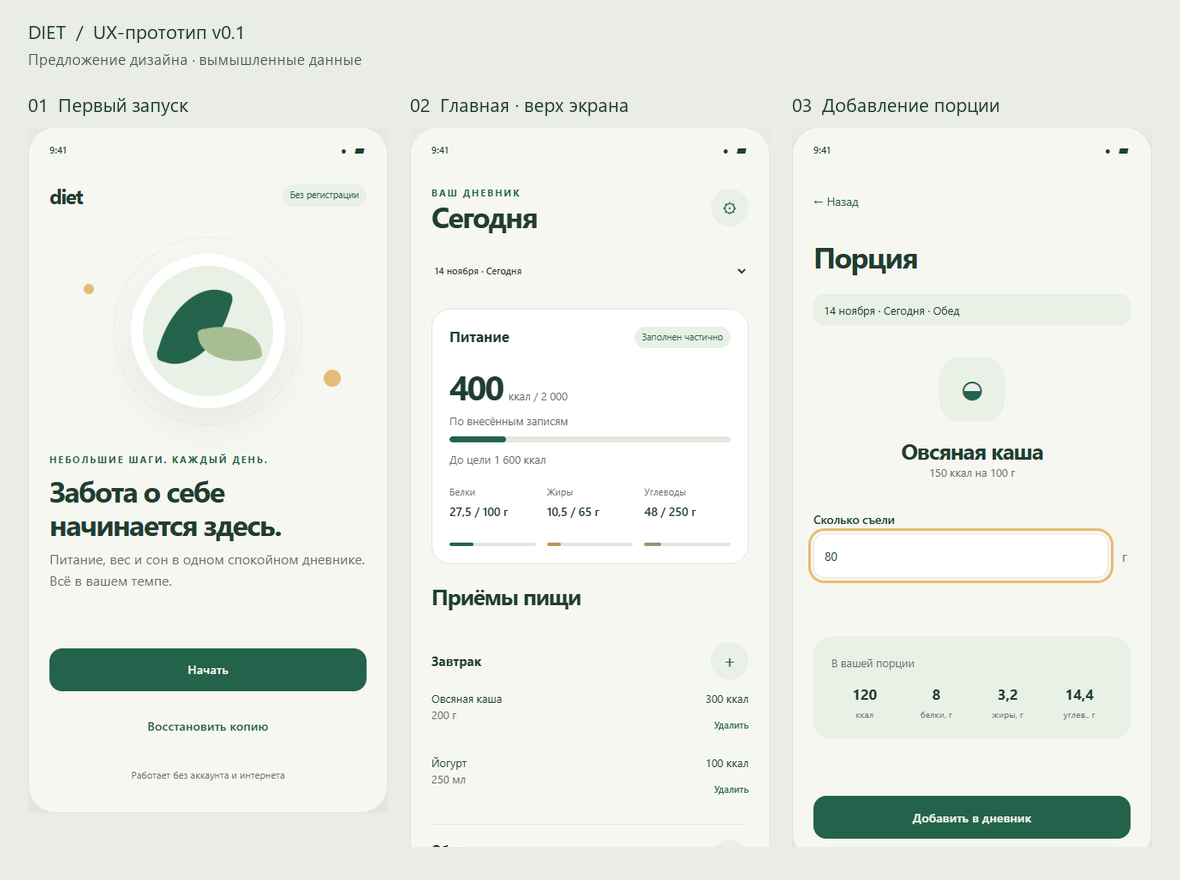
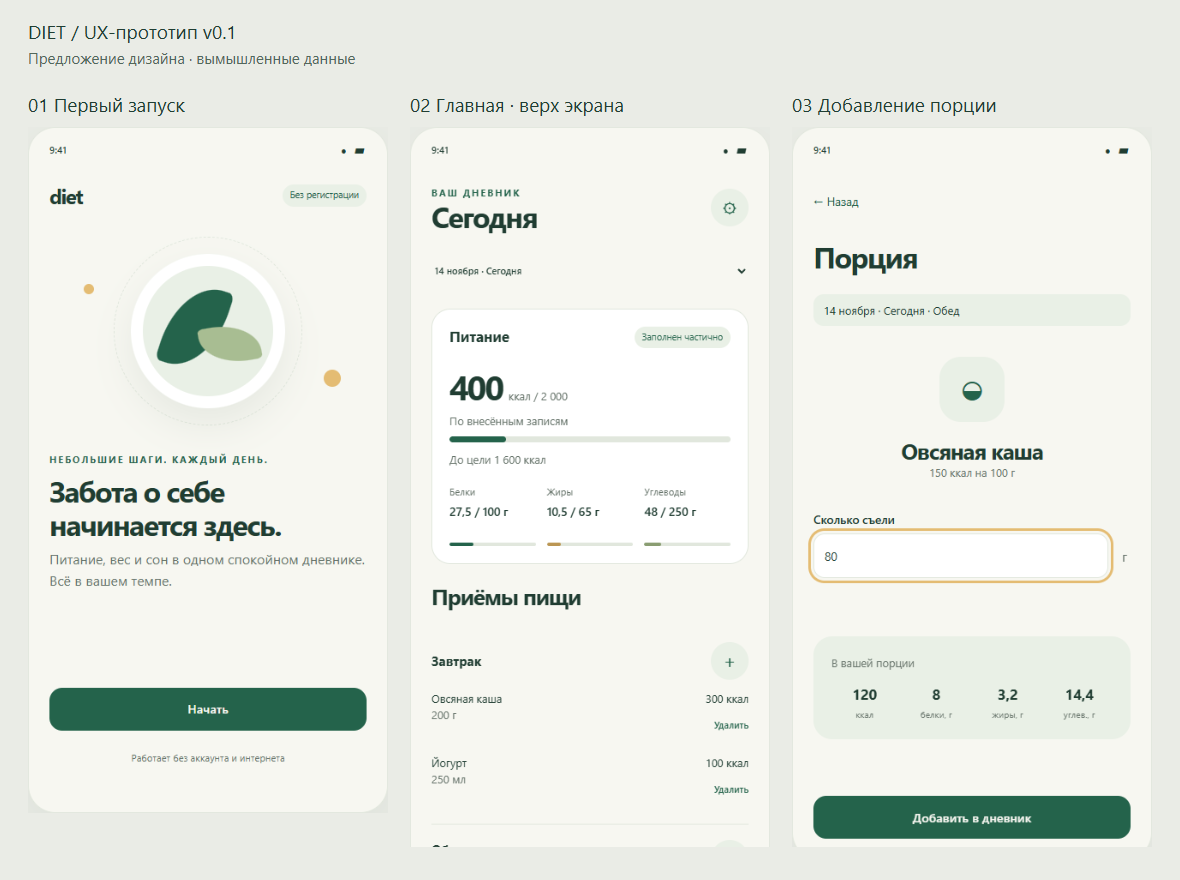
design: remove restore action from onboarding prototype

diff --git a/docs/prototype/index.html b/docs/prototype/index.html
@@ -72,7 +72,7 @@ function closeModal(){document.getElementById('dialog').close();if(lastFocus?.is
 function outside(){modal('За пределами макета','Этот сценарий не входит в прототип. Здесь можно проверить первый запуск, главную и добавление еды. Данные не изменены.');}
 function render(){
  let html='';
- if(state.screen==='welcome')html=`<div class="screen"><div class="row"><span class="brand">diet</span><span class="pill">Без регистрации</span></div><div class="art" aria-hidden="true"><div class="orbit"></div><div class="plate"><div class="leaf"></div><div class="leaf second"></div></div><i class="dot one"></i><i class="dot two"></i></div><div class="heading"><span class="eyebrow">Небольшие шаги. Каждый день.</span><h1 tabindex="-1">Забота о себе<br>начинается здесь.</h1><p class="muted">Питание, вес и сон в одном спокойном дневнике. Всё в вашем темпе.</p></div><div class="spacer"></div><div class="stack"><button class="button full" data-action="start">Начать</button><button class="button plain full" data-action="outside">Восстановить копию</button></div><p class="footer-note">Работает без аккаунта и интернета</p></div>`;
+ if(state.screen==='welcome')html=`<div class="screen"><div class="row"><span class="brand">diet</span><span class="pill">Без регистрации</span></div><div class="art" aria-hidden="true"><div class="orbit"></div><div class="plate"><div class="leaf"></div><div class="leaf second"></div></div><i class="dot one"></i><i class="dot two"></i></div><div class="heading"><span class="eyebrow">Небольшие шаги. Каждый день.</span><h1 tabindex="-1">Забота о себе<br>начинается здесь.</h1><p class="muted">Питание, вес и сон в одном спокойном дневнике. Всё в вашем темпе.</p></div><div class="spacer"></div><div class="stack"><button class="button full" data-action="start">Начать</button></div><p class="footer-note">Работает без аккаунта и интернета</p></div>`;
  if(state.screen==='profile')html=`<div class="screen">${header('welcome','Давайте познакомимся','Этот шаг можно пропустить. Всё можно изменить позже.')}${step(1)}${field('name','Как к вам обращаться',state.name,'autocomplete="off" maxlength="40" placeholder="Имя, необязательно"')}<div class="stack"><h3>Что сейчас вам ближе?</h3>${['Снижение веса','Поддержание','Набор массы'].map(t=>`<button class="choice" data-action="direction" data-value="${t}" aria-pressed="${state.direction===t}"><span class="radio" aria-hidden="true"></span>${t}</button>`).join('')}</div><div class="spacer"></div><div class="stack"><button class="button full" data-action="goals">Продолжить</button><button class="button plain full" data-action="skip-profile">Пропустить</button></div></div>`;
  if(state.screen==='goals')html=`<div class="screen">${header('goal-back','Ваши ориентиры','Введите свои значения КБЖУ. Можно начать дневник и настроить их позже.')}${step(2)}${nutrientFields('goal',state.goalDraft)}<label class="field" for="goal-date">Действуют с даты<select id="goal-date"><option value="${TODAY}" ${state.goalDate===TODAY?'selected':''}>14 ноября 2026</option><option value="${YESTERDAY}" ${state.goalDate===YESTERDAY?'selected':''}>13 ноября 2026</option></select></label><p class="small muted">Здесь нет автоматической рекомендации. Направление цели не меняет введённые значения.</p><p class="error" id="goal-error" aria-live="polite"></p><div class="spacer"></div><div class="stack"><button class="button full" id="goal-save" data-action="save-goal" ${goalValid()?'':'disabled'}>${state.returnHome?'Сохранить цель':'Сохранить и начать'}</button><button class="button plain full" data-action="skip-goal">${state.returnHome?'Вернуться в дневник':'Настроить позже'}</button><button class="link" data-action="clear-goal">Очистить черновик</button></div></div>`;
  if(state.screen==='home')html=home();

diff --git a/docs/prototype/validation.md b/docs/prototype/validation.md
@@ -51,6 +51,12 @@
 
 ## Что остаётся проверить
 
-С пользователем: визуальное направление, понятность целей и полного набора КБЖУ, расположение действий, тексты пустых состояний. На реальном Android после отдельного разрешения на реализацию: системная клавиатура, системный крупный шрифт, TalkBack, перезапуск, хранение, ошибки записи и восстановление копий. Контраст и работа со скринридером не проходили инструментальный аудит доступности.
+С пользователем: визуальное направление, понятность целей и полного набора КБЖУ, расположение действий, тексты пустых состояний. На реальном Android после отдельного разрешения на реализацию: системная клавиатура, системный крупный шрифт, TalkBack, перезапуск, хранение и ошибки записи. Контраст и работа со скринридером не проходили инструментальный аудит доступности.
 
-Расчётные рекомендации, полнофункциональные рецепты/копирование, редактирование исторической порции, аналитика, вес/сон и резервные копии не считаются реализованными или проверенными этим макетом. Полный список границ — [README прототипа](README.md).
+Расчётные рекомендации, полнофункциональные рецепты/копирование, редактирование исторической порции, аналитика и вес/сон не считаются реализованными или проверенными этим макетом. Полный список границ — [README прототипа](README.md).
+
+## Изменение объёма — 14 ноября 2026 года
+
+Пользователь исключил резервные копии и восстановление из продукта. С приветствия удалена кнопка-заглушка «Восстановить копию»; маршруты первого запуска, главной и добавления еды сохранены. Снимок первого запуска и общий обзор обновлены под текущий экран. Первоначальные 36 проверок выше относятся к указанному исходному коммиту, а не автоматически к каждой следующей версии макета.
+
+После удаления выполнены восемь целевых браузерных проверок в отдельном headless Edge: отсутствие кнопки восстановления, наличие «Начать», проход без анкеты/целей на главную, расчёт порции 80 г = 120 ккал, сохранение в обед, отсутствие горизонтального переполнения приветствия на 320 px, отсутствие внешних HTTP-запросов и ошибок JavaScript. Все пройдены; синтаксис встроенного JavaScript также проверен. Обновлённые два снимка просмотрены визуально. Остальные снимки не менялись. Запуск браузера в обычной изоляции завершился ошибкой до открытия страницы; проверка выполнена через штатный механизм разрешений без пользовательского профиля.

diff --git a/docs/work-log.md b/docs/work-log.md
@@ -227,3 +227,11 @@
 - Сохранены требования к локальному хранению, перезапуску и обновлениям, историческим значениям, копированию еды и возврату к черновикам. История Git и предыдущие записи журнала остаются историей решений, а не действующим планом резервных копий.
 - Файлы этой правки: AGENTS.md, README.md, docs/product-spec.md, docs/user-flows.md, docs/handoff.md, docs/work-log.md. Независимый аудит выявил зависимые обещания в первом запуске, полноте дня и плане проверок; они также удалены. Проверки фактического diff, ссылок, UTF-8, пробелов, уникальности ID и оставшихся упоминаний пройдены; независимое ревью итогового diff замечаний не выявило.
 - Статус: подготовлена отдельная публикация нового объёма. Удаление кнопки и обновление снимков макета — следующая отдельная правка; код Android-приложения не создаётся.
+
+## 2026-11-14 — удаление восстановления из макета
+
+- Изменение объёма опубликовано коммитом `a49ca33`; удалённый SHA подтверждён: `a49ca33e8255763b3527bf09779d8bb33b923ef4`.
+- Удалена кнопка-заглушка «Восстановить копию» на приветствии. Обновлены снимки первого запуска и обзора, границы макета и отчёт проверок. Причина — привести доступные действия и визуальные материалы в соответствие с новым решением пользователя.
+- Файлы этой правки: docs/prototype/index.html, docs/prototype/README.md, docs/prototype/validation.md, docs/prototype/previews/onboarding.png, docs/prototype/previews/overview.png, docs/work-log.md. Код Android-приложения не менялся.
+- Пройдены восемь целевых браузерных проверок: удалённое действие отсутствует, «Начать» доступно, первый запуск ведёт на главную без цели, порция 80 г даёт 120 ккал и сохраняется в обед, приветствие помещается на 320 px, ошибок JavaScript и внешних HTTP-запросов нет. Проверены синтаксис JavaScript, документы и diff; снимки просмотрены, независимое ревью текстовых правок замечаний не выявило. Исторические 36 проверок не объявлены повторно выполненными.
+- Обычная изоляция не позволила запустить отдельный headless Edge; через штатный механизм разрешений проверка выполнена без пользовательского профиля. Статус: макет подготовлен к отдельному commit/push с проверкой удалённого SHA.

diff --git a/docs/prototype/README.md b/docs/prototype/README.md
@@ -39,10 +39,11 @@
 ## Границы достоверности
 
 - Пересчёт порций иллюстрирует арифметику ТЗ; продукты и цели демонстрационные, не справочник и не рекомендации. Округление макета не утверждает политику расчётов приложения.
-- Не проверяются: постоянное хранение, перезапуск Android, аварии записи, резервные копии, синхронизация, системные разрешения и клавиатура реального телефона.
+- Не проверяются: постоянное хранение, перезапуск Android, аварии записи, синхронизация, системные разрешения и клавиатура реального телефона.
 - Вес, сон, аналитические графики, полноценный справочник/редактор рецептов и другие разделы вне трёх основных сценариев обозначены как границы макета. Они не должны сообщать об успешной операции, которая не выполнялась.
-- Сохранение черновика после закрытия приложения, расчёт рекомендаций, конфликты целей и перенос данных между установками требуют будущего проектирования и реализации.
+- Сохранение черновика после закрытия приложения, расчёт рекомендаций и конфликты целей требуют будущего проектирования и реализации.
 - Макет не выбирает Kotlin/Compose/Room или веб-технологии для приложения. Код в index.html обслуживает только демонстрацию интерфейса.
+- По решению пользователя от 14 ноября 2026 года резервные копии и восстановление исключены из продукта. Кнопка восстановления удалена с первого экрана; снимки первого запуска и обзор обновлены. Обычное локальное хранение и сохранение черновиков остаются требованиями будущего приложения.
 
 ## Решения после просмотра
 
